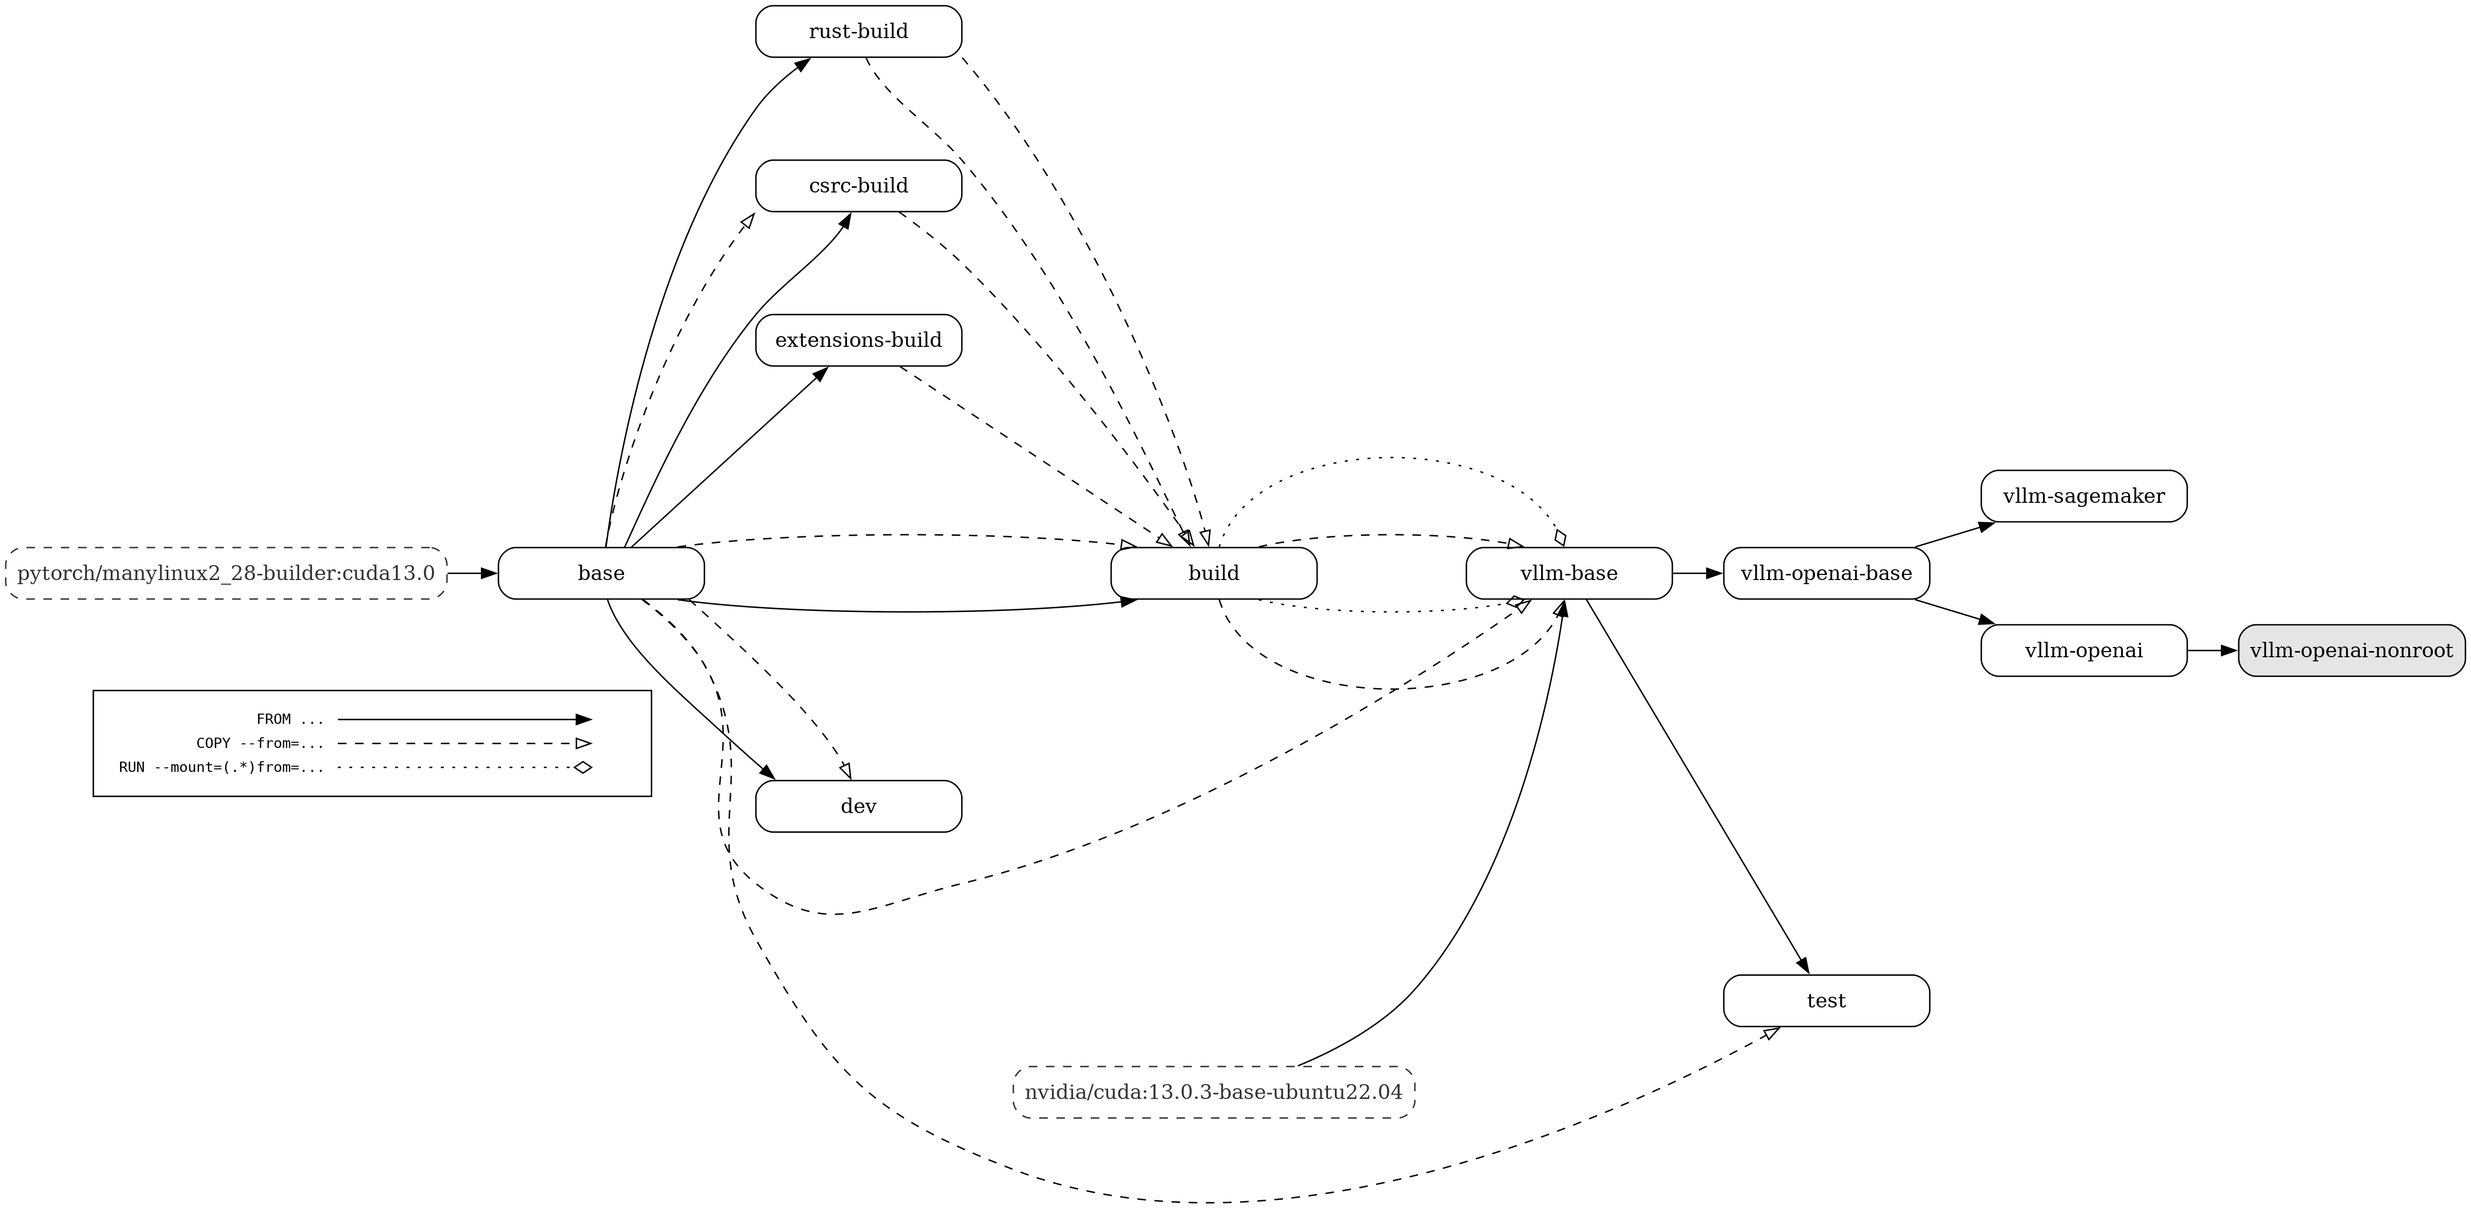
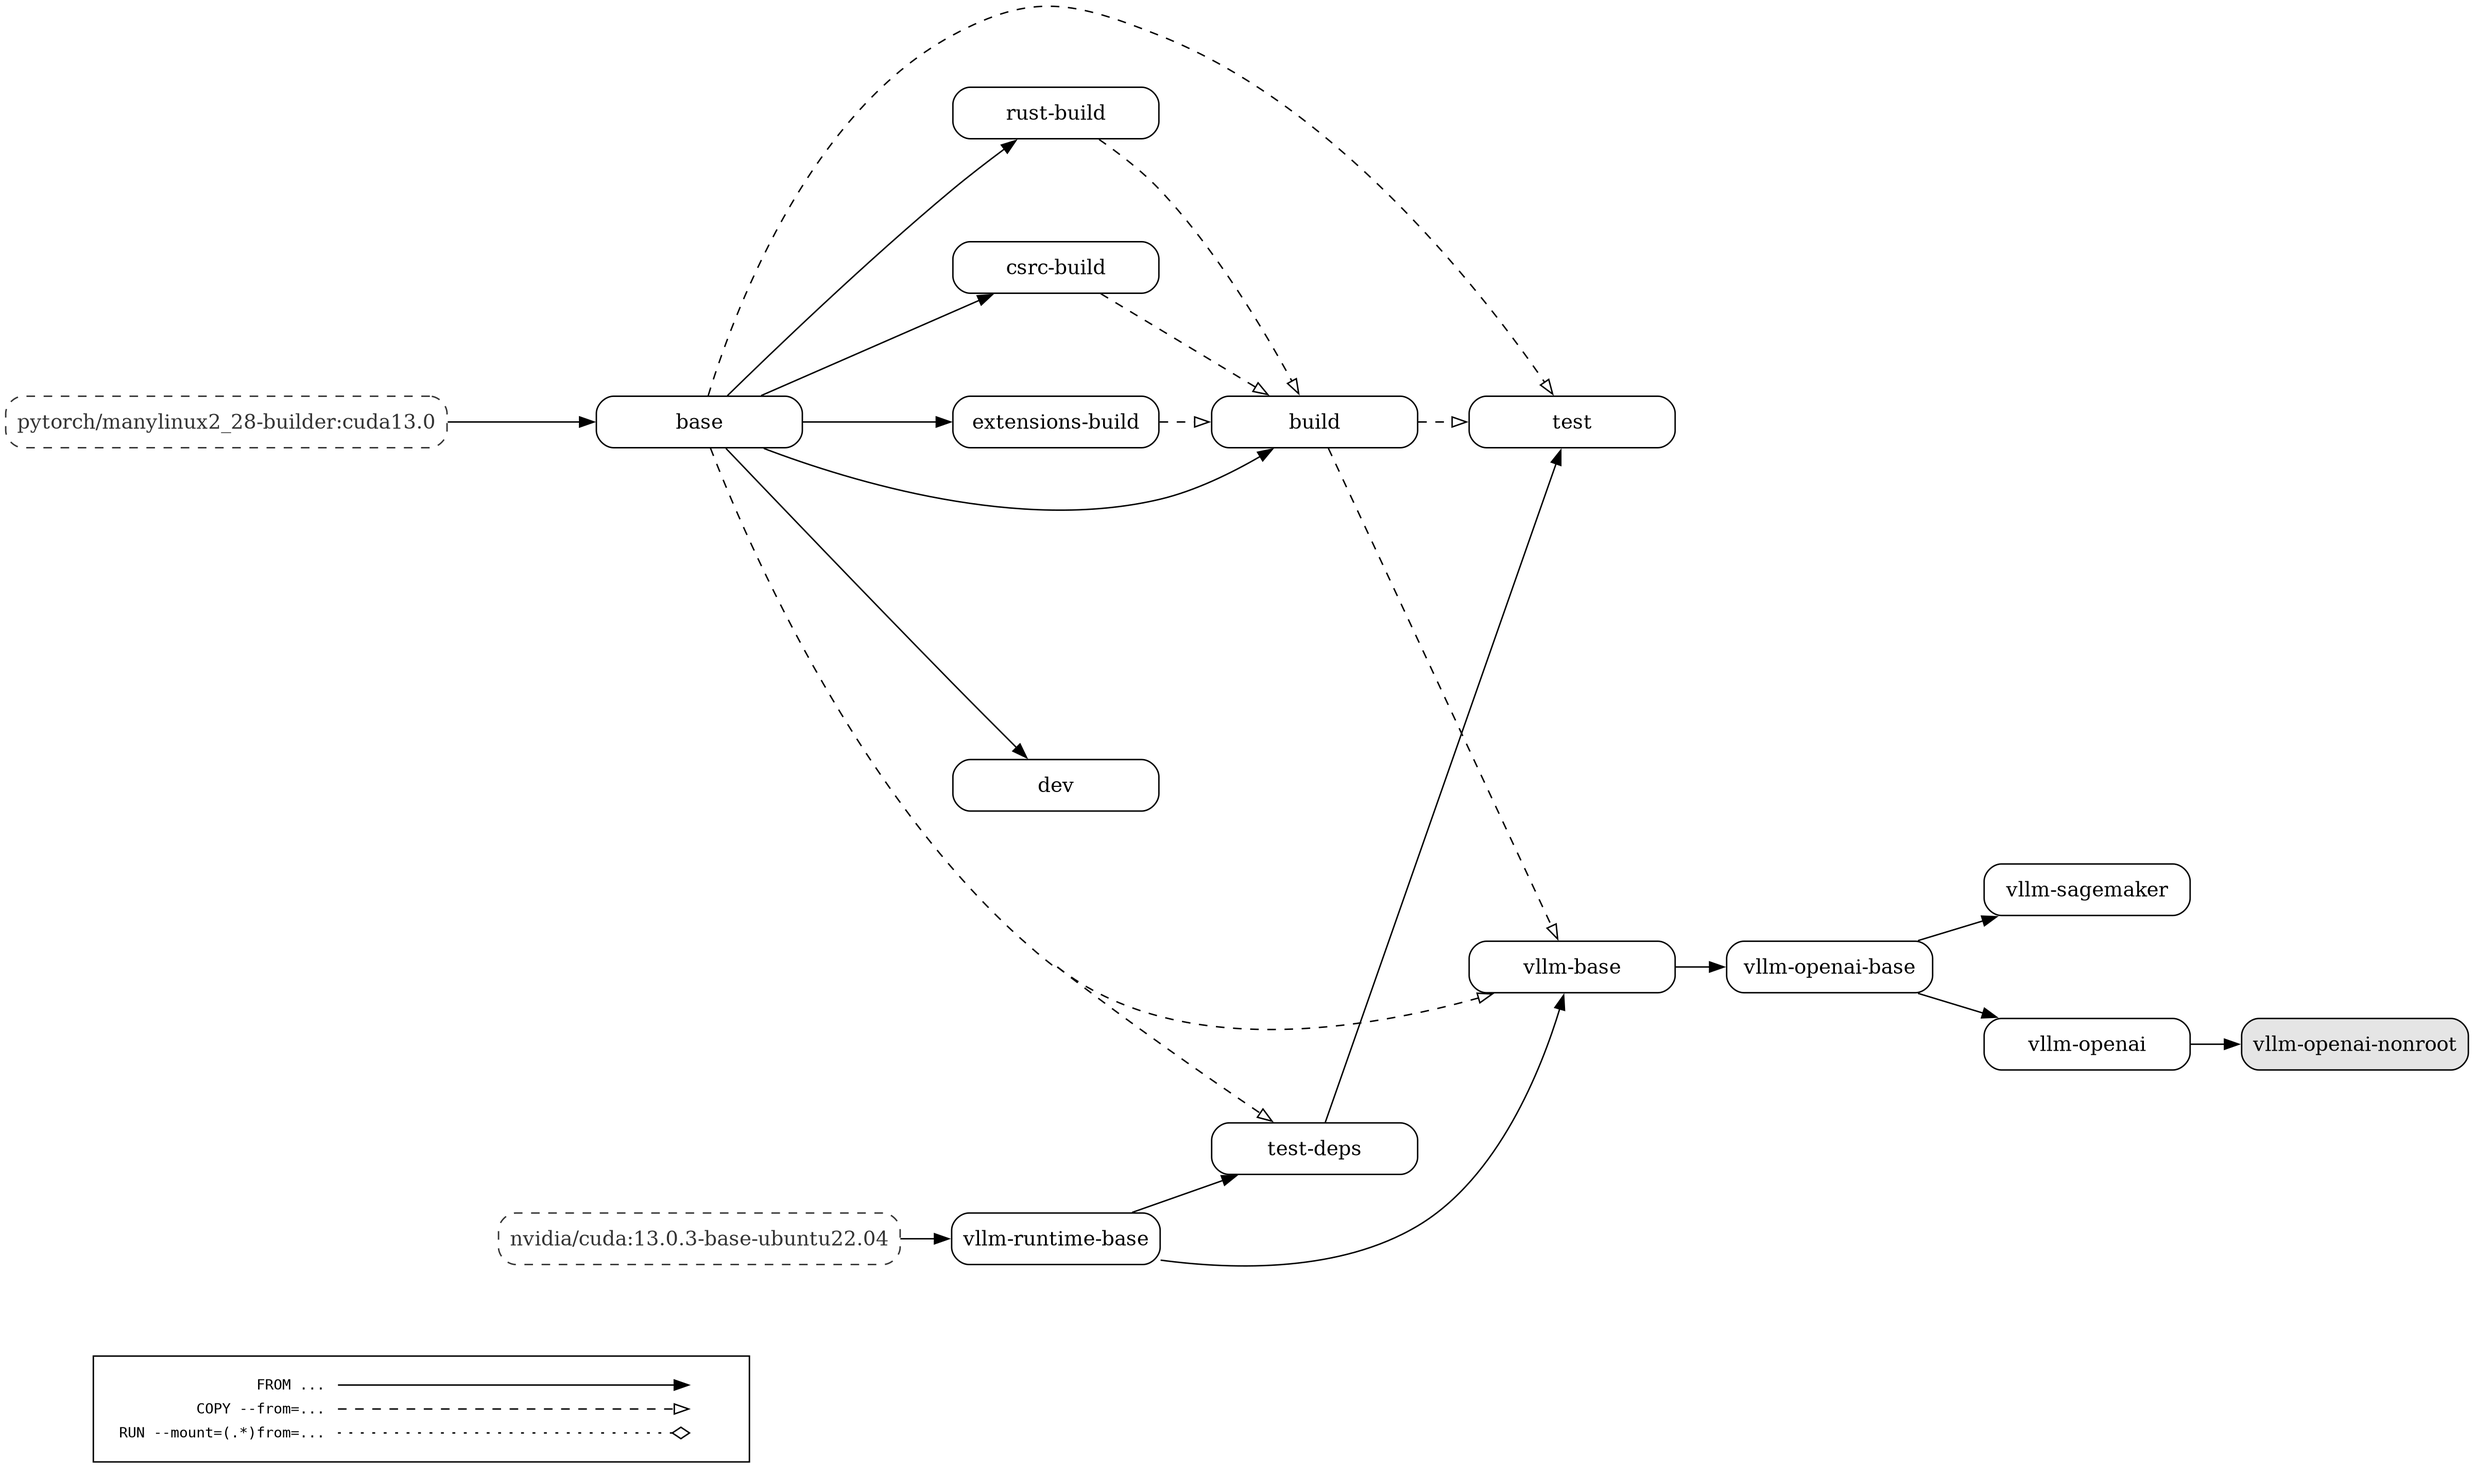
[Docker] Cache test dependencies before vLLM install (#51184)

diff --git a/docs/contributing/dockerfile/dockerfile.md b/docs/contributing/dockerfile/dockerfile.md
@@ -17,6 +17,9 @@ The edges of the build graph represent:
 
 - `RUN --mount=(.\*)from=...` dependencies (with a dotted line and an empty diamond arrow head)
 
+The `test-deps` stage branches from `vllm-runtime-base` so Git and the test
+requirements remain cached independently of per-commit vLLM wheels and source.
+
   > <figure markdown="span">
   >   ![](../../assets/contributing/dockerfile-stages-dependency.png){ align="center" alt="query" width="100%" }
   > </figure>
@@ -28,6 +31,7 @@ The edges of the build graph represent:
   > ```bash
   > dockerfilegraph \
   >   -o png \
+  >   --concentrate \
   >   --legend \
   >   --dpi 200 \
   >   --max-label-length 50 \
@@ -47,6 +51,7 @@ The edges of the build graph represent:
   >    --dpi 200 \
   >    --max-label-length 50 \
   >    --filename docker/Dockerfile \
+  >    --concentrate \
   >    --legend
   > ```
   >
